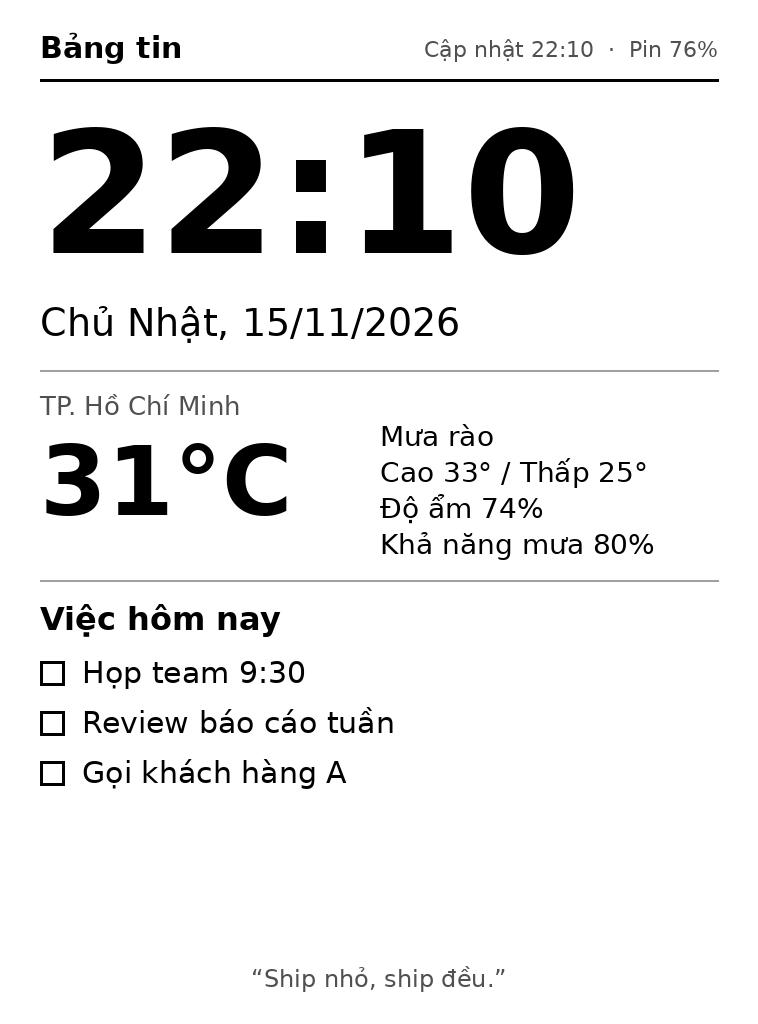
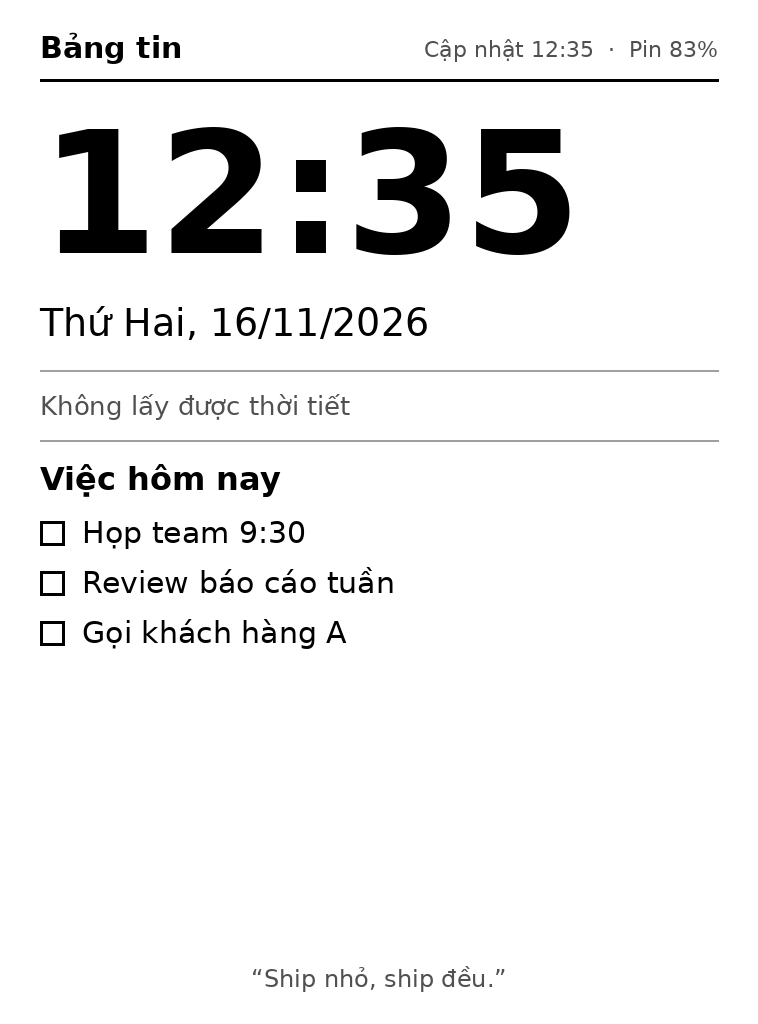
Switch Kindle side to scriptlets (KUAL is obsolete on hdnext); macOS font fallback
Claude-Session: https://claude.ai/code/session_01V5xiiJ9vFpYkxgipGrfd5U

diff --git a/server/dashboard_server.py b/server/dashboard_server.py
@@ -38,12 +38,23 @@ def load_config(path):
         return json.load(f)
 
 
+FONT_CANDIDATES = {
+    False: ["/usr/share/fonts/truetype/dejavu/DejaVuSans.ttf",
+            "/System/Library/Fonts/Supplemental/Arial.ttf",
+            "/Library/Fonts/Arial.ttf"],
+    True: ["/usr/share/fonts/truetype/dejavu/DejaVuSans-Bold.ttf",
+           "/System/Library/Fonts/Supplemental/Arial Bold.ttf",
+           "/Library/Fonts/Arial Bold.ttf"],
+}
+
+
 def font(cfg, size, bold=False):
-    path = cfg.get("font_bold" if bold else "font_regular")
-    try:
-        return ImageFont.truetype(path, size)
-    except (OSError, TypeError):
-        return ImageFont.load_default(size)
+    """Config font first, then common Linux/macOS fonts with Vietnamese glyphs."""
+    paths = [cfg.get("font_bold" if bold else "font_regular")] + FONT_CANDIDATES[bold]
+    for path in paths:
+        if path and os.path.exists(path):
+            return ImageFont.truetype(path, size)
+    return ImageFont.load_default(size)
 
 
 def fetch_weather(cfg):

diff --git a/README.md b/README.md
@@ -29,29 +29,35 @@ python3 dashboard_server.py                         # chạy server :8080
 - Danh sách việc lấy từ `server/todo.txt`. Sửa file là lần làm mới sau sẽ cập nhật.
 - Muốn có widget mới thì viết thêm vào hàm `render()`.
 
-## 2. Kindle
+## 2. Kindle (PW2 firmware 5.12.2.2, đã jailbreak bằng WinterBreak2)
 
-1. **Sạc cho pin sống lại trước** (xem phần cứu pin ở dưới).
-2. **Jailbreak**: vào Settings > Device Info xem phiên bản firmware, rồi làm
-   theo hướng dẫn cho đúng phiên bản đó tại https://kindlemodding.org.
-3. Cài **KUAL** và **MRPI** (hướng dẫn có trên cùng trang).
-4. Cắm USB vào máy tính, chép thư mục `kindle/extensions/dashboard` vào
-   `extensions/` trên ổ Kindle.
-5. Sửa `extensions/dashboard/dash.conf`: đặt `SERVER_URL` thành IP LAN của
-   máy chạy server.
-6. Mở KUAL > Dashboard > **Vẽ 1 lần (test)**. Hình hiện lên đúng thì chọn
-   **Bật dashboard**.
-7. Muốn quay về đọc sách thì chọn KUAL > Dashboard > **Tắt dashboard**. Nếu
-   đã bị khoá ngoài màn hình thì giữ nút nguồn 20–40 giây để khởi động lại.
+Firmware này dùng bộ jailbreak "hdnext". KUAL **không chạy**, nên dashboard
+được làm dưới dạng **scriptlet**: file `.sh` đặt trong `documents/` sẽ hiện
+trong thư viện như một cuốn sách, bấm vào là chạy.
+
+1. Cắm Kindle vào Mac, chép file vào Kindle:
+   ```bash
+   ditto --norsrc --noextattr --noacl kindle/dashboard /Volumes/Kindle/dashboard
+   ditto --norsrc --noextattr --noacl kindle/documents /Volumes/Kindle/documents
+   find /Volumes/Kindle -name '._*' -delete
+   ```
+2. Sửa `SERVER_URL` trong `/Volumes/Kindle/dashboard/dash.conf` thành IP của
+   Mac (`ipconfig getifaddr en0`), rồi chạy `diskutil eject /Volumes/Kindle`.
+3. Trên Kindle (bật Wi-Fi, cùng mạng với Mac), trong thư viện:
+   - **Dashboard - Test**: vẽ 1 lần, giao diện Kindle vẫn chạy. Log ghi vào `dashboard/test.log`.
+   - **Dashboard - Bat**: tắt giao diện Kindle, làm mới liên tục.
+   - **Dashboard - Tat**: tắt dashboard (khi giao diện Kindle còn bấm được).
+4. **Thoát khi đang ở chế độ dashboard**: giữ nút nguồn khoảng 20 giây để
+   khởi động lại. Dashboard không tự chạy khi máy khởi động.
 
 ## Pin
 
-Ở chế độ `DEEP_SLEEP=1`, giữa hai lần làm mới Kindle ngủ sâu và tắt Wi-Fi.
+Mặc định `DEEP_SLEEP=0`. Nếu bật `DEEP_SLEEP=1` (chưa thử trên máy thật), giữa hai lần làm mới Kindle ngủ sâu và tắt Wi-Fi.
 Làm mới 10 phút/lần thì pin trụ được cỡ vài ngày đến 1–2 tuần, tuỳ tình
 trạng pin. Muốn dùng 24/7 thì cứ để cắm sạc. Nếu máy không tự thức dậy, đổi
 `RTC_DEV` sang `/dev/rtc0` hoặc đặt `DEEP_SLEEP=0`.
 
 ## Gỡ lỗi
 
-- Log nằm ở `extensions/dashboard/dash.log`.
+- Log nằm ở `dashboard/dash.log` và `dashboard/test.log` trên Kindle.
 - Kindle phải vào được `SERVER_URL`. Kiểm tra firewall trên máy chạy server.
